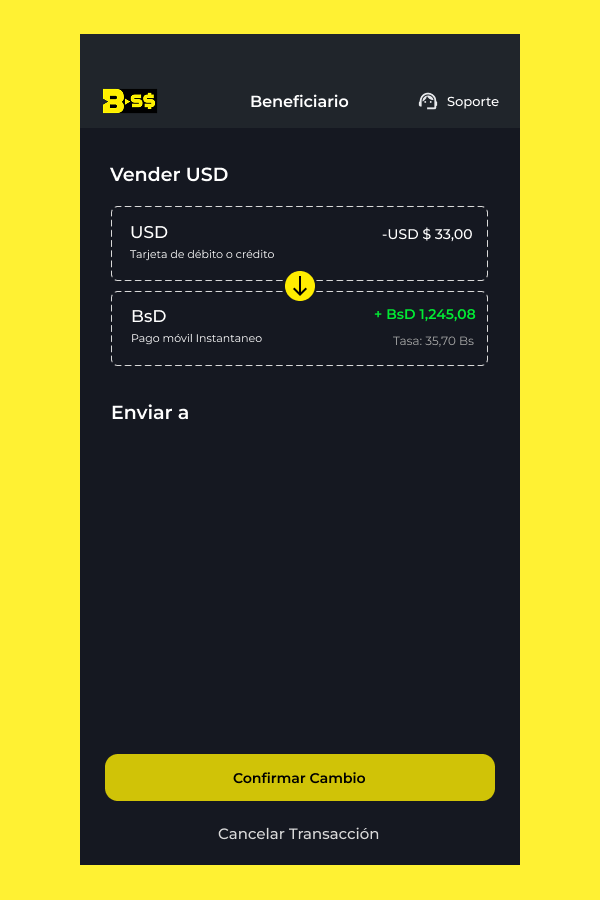
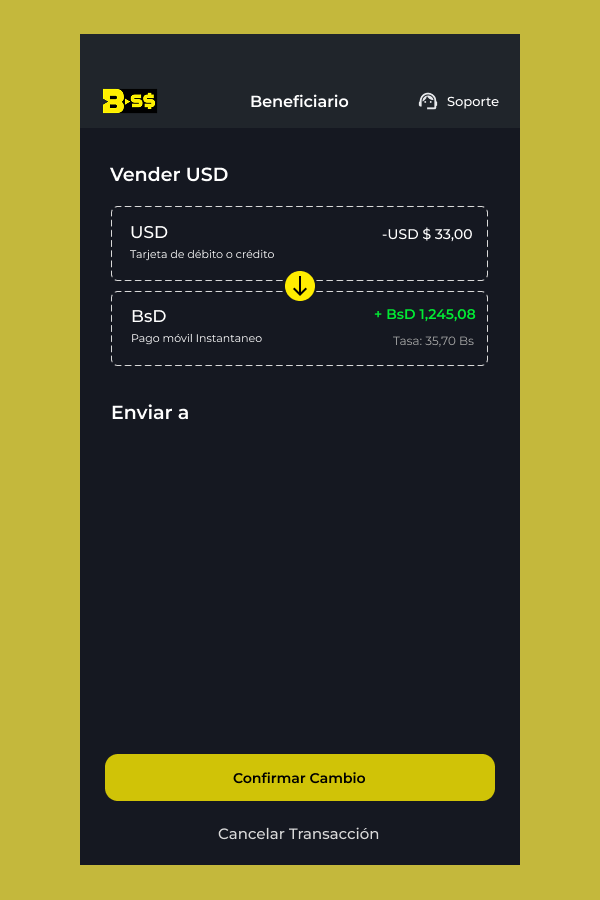
fix images bug

diff --git a/constants/index.js b/constants/index.js
@@ -1,17 +1,17 @@
 export const exploreWorlds = [
   {
     id: 'world-1',
-    imgUrl: '/home.svg',
+    imgUrl: '/home.png',
     title: 'Una interfaz sencilla de usar',
   },
   {
     id: 'world-2',
-    imgUrl: '/beneficiario.svg',
+    imgUrl: '/beneficiario.png',
     title: 'Cambio inmediato de divisas',
   },
   {
     id: 'world-3',
-    imgUrl: '/perfil.svg',
+    imgUrl: '/perfil.png',
     title: 'Estadísticas y datos',
   },
   {
